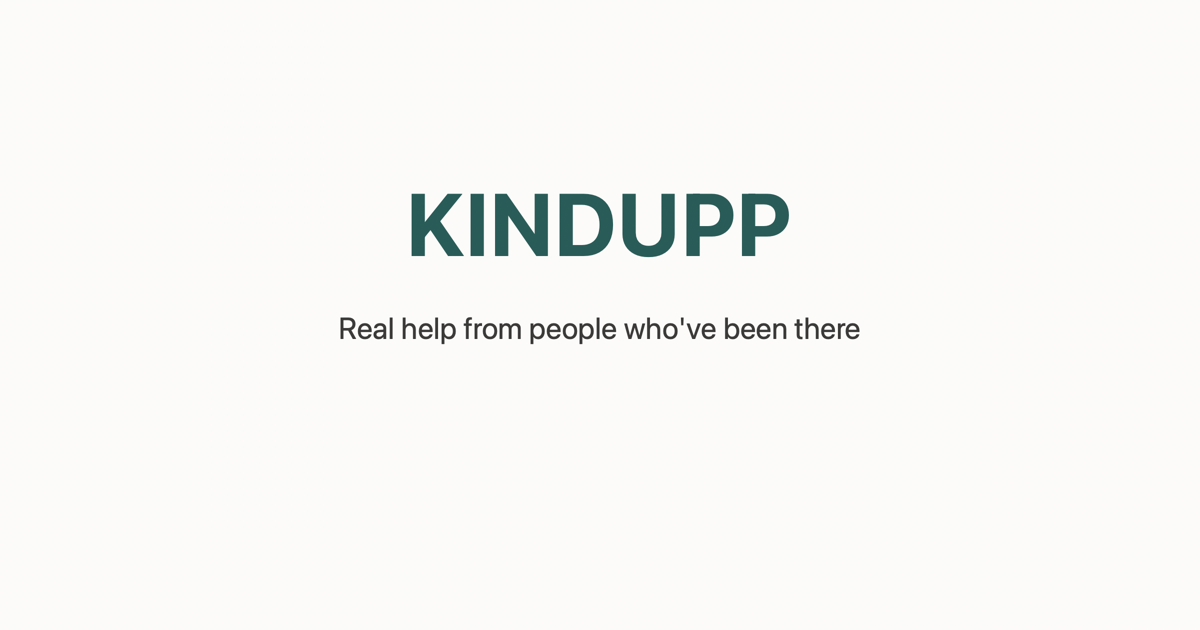
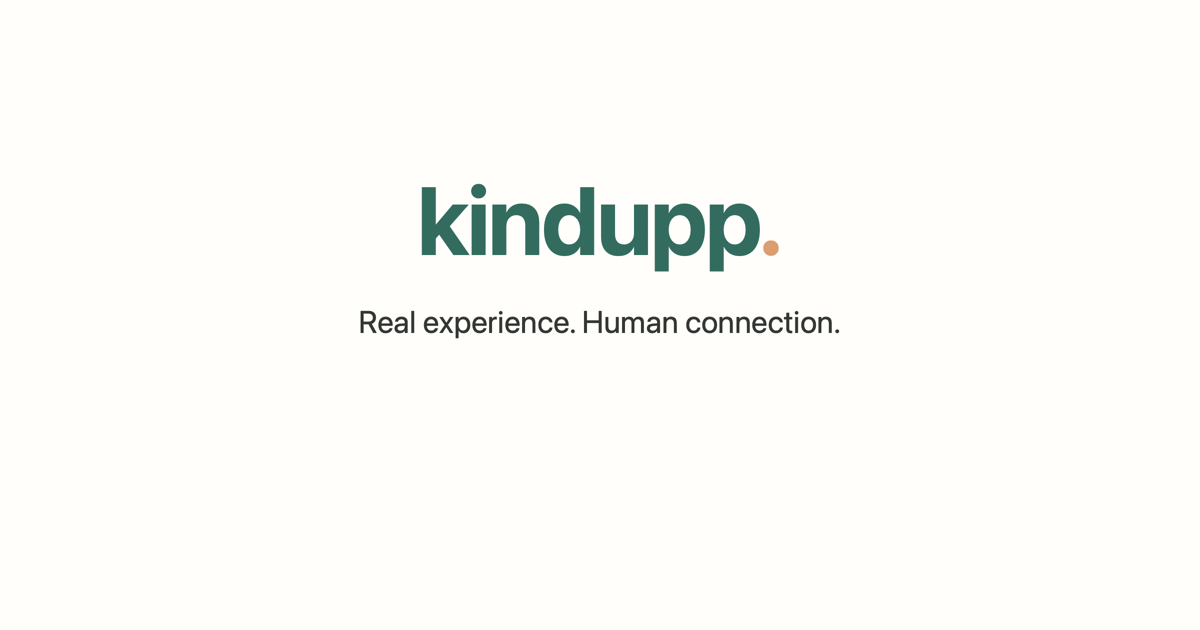
Align KINDUPP share assets and legacy inventory

Changed region(s): [[0.3392, 0.3016, 0.6783, 0.4524], [0.2775, 0.4825, 0.74, 0.5429]]

diff --git a/public/index.html b/public/index.html
@@ -8,13 +8,13 @@
 <meta property="og:type" content="website">
 <meta property="og:site_name" content="KINDUPP">
 <meta property="og:title" content="Real help from people who&#x27;ve been there · KINDUPP">
-<meta property="og:description" content="Real help from people who've been there.">
+<meta property="og:description" content="Real experience. Human connection.">
 <meta property="og:image" content="https://kindupp.com/og-kindupp.png">
 <meta property="og:image:width" content="1200">
 <meta property="og:image:height" content="630">
 <meta name="twitter:card" content="summary_large_image">
 <meta name="twitter:title" content="Real help from people who&#x27;ve been there · KINDUPP">
-<meta name="twitter:description" content="Real help from people who've been there.">
+<meta name="twitter:description" content="Real experience. Human connection.">
 <meta name="twitter:image" content="https://kindupp.com/og-kindupp.png">
 <style>
   body { margin: 0; background: #ffffff; color: #2D2C2B;

diff --git a/public/terms.html b/public/terms.html
@@ -8,13 +8,13 @@
 <meta property="og:type" content="website">
 <meta property="og:site_name" content="KINDUPP">
 <meta property="og:title" content="Terms of Service (Draft) · KINDUPP">
-<meta property="og:description" content="Real help from people who've been there.">
+<meta property="og:description" content="Real experience. Human connection.">
 <meta property="og:image" content="https://kindupp.com/og-kindupp.png">
 <meta property="og:image:width" content="1200">
 <meta property="og:image:height" content="630">
 <meta name="twitter:card" content="summary_large_image">
 <meta name="twitter:title" content="Terms of Service (Draft) · KINDUPP">
-<meta name="twitter:description" content="Real help from people who've been there.">
+<meta name="twitter:description" content="Real experience. Human connection.">
 <meta name="twitter:image" content="https://kindupp.com/og-kindupp.png">
 <style>
   body { margin: 0; background: #ffffff; color: #2D2C2B;

diff --git a/public/privacy.html b/public/privacy.html
@@ -8,13 +8,13 @@
 <meta property="og:type" content="website">
 <meta property="og:site_name" content="KINDUPP">
 <meta property="og:title" content="Privacy Policy (Draft) · KINDUPP">
-<meta property="og:description" content="Real help from people who've been there.">
+<meta property="og:description" content="Real experience. Human connection.">
 <meta property="og:image" content="https://kindupp.com/og-kindupp.png">
 <meta property="og:image:width" content="1200">
 <meta property="og:image:height" content="630">
 <meta name="twitter:card" content="summary_large_image">
 <meta name="twitter:title" content="Privacy Policy (Draft) · KINDUPP">
-<meta name="twitter:description" content="Real help from people who've been there.">
+<meta name="twitter:description" content="Real experience. Human connection.">
 <meta name="twitter:image" content="https://kindupp.com/og-kindupp.png">
 <style>
   body { margin: 0; background: #ffffff; color: #2D2C2B;

diff --git a/public/delete-account.html b/public/delete-account.html
@@ -8,13 +8,13 @@
 <meta property="og:type" content="website">
 <meta property="og:site_name" content="KINDUPP">
 <meta property="og:title" content="Delete your account · KINDUPP">
-<meta property="og:description" content="Real help from people who've been there.">
+<meta property="og:description" content="Real experience. Human connection.">
 <meta property="og:image" content="https://kindupp.com/og-kindupp.png">
 <meta property="og:image:width" content="1200">
 <meta property="og:image:height" content="630">
 <meta name="twitter:card" content="summary_large_image">
 <meta name="twitter:title" content="Delete your account · KINDUPP">
-<meta name="twitter:description" content="Real help from people who've been there.">
+<meta name="twitter:description" content="Real experience. Human connection.">
 <meta name="twitter:image" content="https://kindupp.com/og-kindupp.png">
 <style>
   body { margin: 0; background: #ffffff; color: #2D2C2B;

diff --git a/public/safety.html b/public/safety.html
@@ -8,13 +8,13 @@
 <meta property="og:type" content="website">
 <meta property="og:site_name" content="KINDUPP">
 <meta property="og:title" content="Help &amp; safety · KINDUPP">
-<meta property="og:description" content="Real help from people who've been there.">
+<meta property="og:description" content="Real experience. Human connection.">
 <meta property="og:image" content="https://kindupp.com/og-kindupp.png">
 <meta property="og:image:width" content="1200">
 <meta property="og:image:height" content="630">
 <meta name="twitter:card" content="summary_large_image">
 <meta name="twitter:title" content="Help &amp; safety · KINDUPP">
-<meta name="twitter:description" content="Real help from people who've been there.">
+<meta name="twitter:description" content="Real experience. Human connection.">
 <meta name="twitter:image" content="https://kindupp.com/og-kindupp.png">
 <style>
   body { margin: 0; background: #ffffff; color: #2D2C2B;

diff --git a/public/stripe/refresh.html b/public/stripe/refresh.html
@@ -8,13 +8,13 @@
 <meta property="og:type" content="website">
 <meta property="og:site_name" content="KINDUPP">
 <meta property="og:title" content="Payout setup · KINDUPP">
-<meta property="og:description" content="Real help from people who've been there.">
+<meta property="og:description" content="Real experience. Human connection.">
 <meta property="og:image" content="https://kindupp.com/og-kindupp.png">
 <meta property="og:image:width" content="1200">
 <meta property="og:image:height" content="630">
 <meta name="twitter:card" content="summary_large_image">
 <meta name="twitter:title" content="Payout setup · KINDUPP">
-<meta name="twitter:description" content="Real help from people who've been there.">
+<meta name="twitter:description" content="Real experience. Human connection.">
 <meta name="twitter:image" content="https://kindupp.com/og-kindupp.png">
 <style>
   body { margin: 0; background: #ffffff; color: #2D2C2B;

diff --git a/public/stripe/return.html b/public/stripe/return.html
@@ -8,13 +8,13 @@
 <meta property="og:type" content="website">
 <meta property="og:site_name" content="KINDUPP">
 <meta property="og:title" content="Payout setup · KINDUPP">
-<meta property="og:description" content="Real help from people who've been there.">
+<meta property="og:description" content="Real experience. Human connection.">
 <meta property="og:image" content="https://kindupp.com/og-kindupp.png">
 <meta property="og:image:width" content="1200">
 <meta property="og:image:height" content="630">
 <meta name="twitter:card" content="summary_large_image">
 <meta name="twitter:title" content="Payout setup · KINDUPP">
-<meta name="twitter:description" content="Real help from people who've been there.">
+<meta name="twitter:description" content="Real experience. Human connection.">
 <meta name="twitter:image" content="https://kindupp.com/og-kindupp.png">
 <style>
   body { margin: 0; background: #ffffff; color: #2D2C2B;

diff --git a/tool/build_legal_site.py b/tool/build_legal_site.py
@@ -74,13 +74,13 @@ PAGE = """<!doctype html>
 <meta property="og:type" content="website">
 <meta property="og:site_name" content="KINDUPP">
 <meta property="og:title" content="{title} · KINDUPP">
-<meta property="og:description" content="Real help from people who've been there.">
+<meta property="og:description" content="Real experience. Human connection.">
 <meta property="og:image" content="https://kindupp.com/og-kindupp.png">
 <meta property="og:image:width" content="1200">
 <meta property="og:image:height" content="630">
 <meta name="twitter:card" content="summary_large_image">
 <meta name="twitter:title" content="{title} · KINDUPP">
-<meta name="twitter:description" content="Real help from people who've been there.">
+<meta name="twitter:description" content="Real experience. Human connection.">
 <meta name="twitter:image" content="https://kindupp.com/og-kindupp.png">
 <style>
   body {{ margin: 0; background: #ffffff; color: #2D2C2B;

diff --git a/docs/launch/KINDUPP-REBRANDING-REPORT.md b/docs/launch/KINDUPP-REBRANDING-REPORT.md
@@ -37,6 +37,24 @@ public business details. Test Google/Apple login, incoming pushes/calls, and
 existing deep-link/callback flows on signed staging builds. Do not rename IDs
 without a separate migration plan.
 
-Old-name search results remain in code identifiers, historical docs, service
-project names and diagnostics by design; user-facing display locations above
-were updated. See the exact diff in this branch before release.
+## Remaining reference inventory and disposition
+
+| Reference/path | Disposition |
+|---|---|
+| `android/app/build.gradle`, `android/app/src/main/AndroidManifest.xml`, Kotlin package paths/classes, Android Firebase `google-services.json` | Keep `com.yakup.helperly`; this is the registered package/Firebase app identity. The manifest's user-visible label is KINDUPP. |
+| `ios/Runner.xcodeproj/project.pbxproj`, `ios/Runner/Info.plist`, `ios/Runner/GoogleService-Info.plist`, `lib/services/firebase_options.dart` | Keep bundle/Firebase client IDs and URL schemes. Display-name keys are KINDUPP; callback and identity configuration stays unchanged. |
+| `android/app/src/main/kotlin/com/yakup/helperly/HelperlyApplication.kt`, `MainActivity.kt` | Keep class/package names and the `helperly:accepted_call` event key; native registration and Dart event handling are coupled. |
+| `lib/services/helperly_test_runtime.dart` and its imports across `lib/` | Test harness/internal dependency injection name; not shown to users. Renaming touches many call, feed, chat, profile and notification paths without a brand benefit. |
+| `HELPERLY_ENV`, `HELPERLY_TEST_MODE`, `firebase_options_staging.dart`, `tool/build_staging.sh`, staging smoke/deploy scripts, `helperly-call-v2-dev` | Preserve environment switches and staging project references; these identify service environments and guarded operations. |
+| `lib/services/app_prefs.dart` (`helperly_app_prefs.json`), `lib/services/push_installation_id.dart` (`helperly_push_installation_id`) | Preserve persisted file keys so existing local settings and installation identity are not orphaned. |
+| `lib/call_v2/diagnostics/call_v2_durable_boundary_diagnostics.dart`, `ios/Runner/AppDelegate.swift`, `lib/services/notification_service.dart` diagnostic fingerprints/log labels | Internal telemetry/debug strings; retained to avoid changing diagnostic fingerprints or log filters. They can be relabeled only with a separate diagnostics migration if desired. |
+| `tool/apply_brand.mjs` | Old `Helperly` and `support@helperly.app` strings are intentional detection inputs for the targeted migration helper. Do not remove them while that helper is meant to detect legacy state. |
+| `CLAUDE.md`, `docs/PRODUCTION_DEPLOY_PLAN.md`, `docs/ACCOUNT_DELETION_E2E.md`, `docs/BETA_OPS_CHECKLIST.md`, `docs/PAID_SESSIONS_DESIGN.md` | Historical instructions/snapshots still mention old support/domain/name. Read this Phase 3 report before reusing them; update/mark their historical sections before future deployment or payment work. Do not interpret these old strings as approved contact details. |
+
+The mobile app, website generator and generated public pages contain no active
+`support@helperly.app` or old marketing URL. The detector in
+`tool/apply_brand.mjs` intentionally retains that email as a migration input;
+historical planning documents also retain old values in dated context. The
+remaining old-brand matches in Android/iOS/app code are technical/internal
+items listed above. The five stale planning documents remain a follow-up
+documentation cleanup, not release-ready instructions.

diff --git a/docs/launch/KINDUPP-BRAND-ASSET-REPORT.md b/docs/launch/KINDUPP-BRAND-ASSET-REPORT.md
@@ -1,16 +1,20 @@
 # KINDUPP Brand Asset Status
 
-No approved KINDUPP logo or brand-kit file was found in the app/web assets
-reviewed. Existing launcher and web icons are generic Flutter icons, not an
-approved brand mark. They remain unchanged.
+No separate approved KINDUPP logo or brand-kit file was found in the app/web
+assets reviewed. The approved existing website wordmark is the text treatment
+`kindupp.` with an orange dot. Existing launcher/web app icons are generic
+Flutter icons, not an approved brand mark; they remain unchanged.
 
 The current text wordmark is used as requested. Prepared assets:
 
-- `public/favicon.svg`: KINDUPP text only, using the existing app palette.
-- `public/og-kindupp.png`: 1200×630 social card with the same wordmark and the
-  existing homepage tagline. It contains no new symbol or illustration.
+- `public/favicon.svg`: existing `kindupp.` text wordmark and colors.
+- `public/og-kindupp.png`: 1200×630 social card with that wordmark and the
+  existing “Real experience. Human connection.” site tagline. It contains no
+  new symbol or illustration.
 - `tool/build_legal_site.py` adds favicon, Open Graph and Twitter large-card
   metadata to generated pages.
+- The same assets and metadata are prepared in the Netlify preview source at
+  `outputs/kindupp-site/public/`; no redeploy was performed.
 
 These are prepared source assets only; they have not been deployed or tested
 against a connected production domain. Replace the generic app icons only after
